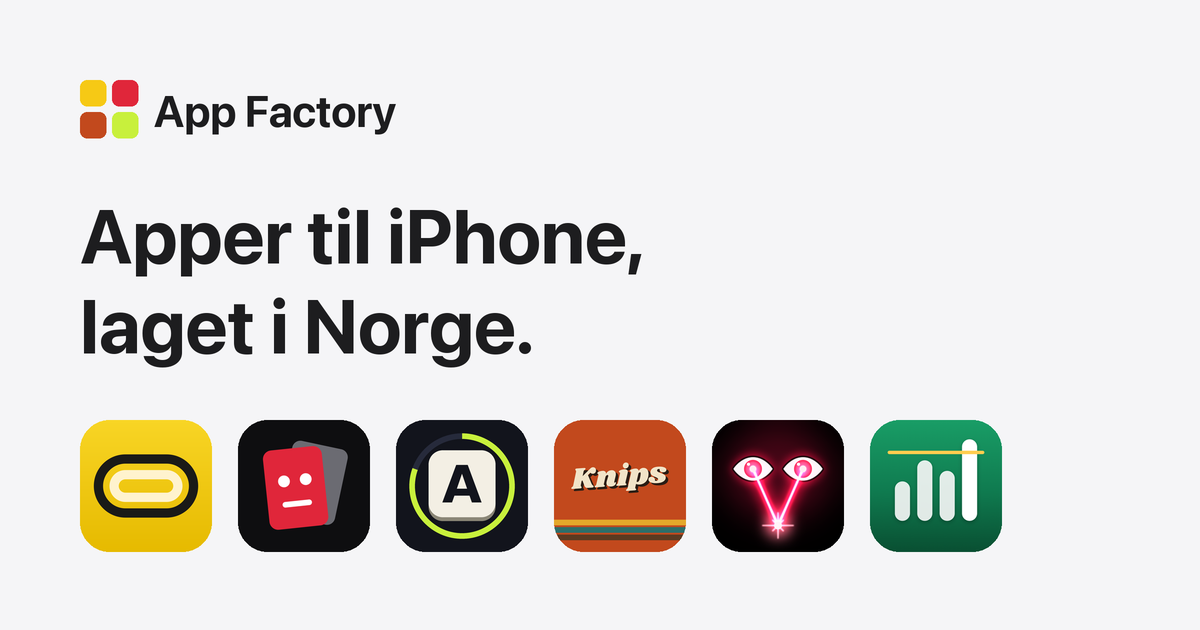
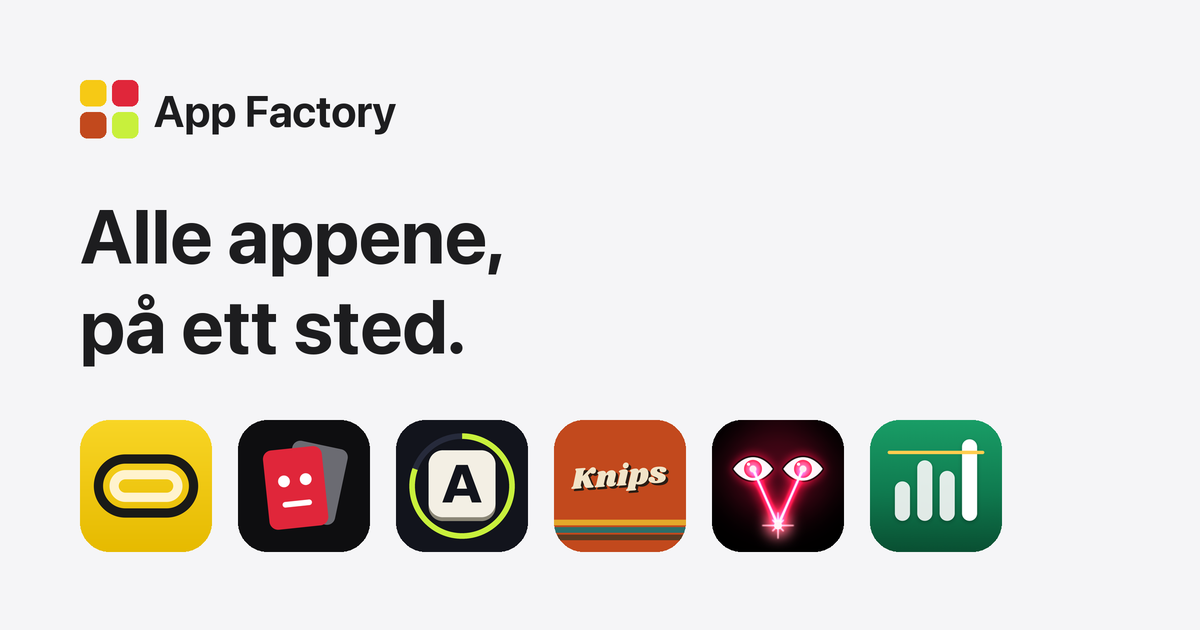
Forsiden uten føringer: «Alle appene fra App Factory», ingen påstander om hva slags apper
Claude-Session: https://claude.ai/code/session_01CbZcx439oTPkDrb5vm3B3Y

Changed region(s): [[0.0925, 0.3317, 0.555, 0.4524], [0.0617, 0.4825, 0.4625, 0.6032]]

diff --git a/index.html b/index.html
@@ -3,8 +3,8 @@
 <head>
 <meta charset="utf-8">
 <meta name="viewport" content="width=device-width, initial-scale=1">
-<title>App Factory – apper til iPhone, laget i Norge</title>
-<meta name="description" content="Alle appene fra App Factory: RunPace, Pokerface, TapTime og flere som kommer. Små, gjennomarbeidede apper til iPhone, laget i Norge av Stian Gaare Vaagan.">
+<title>App Factory – alle appene</title>
+<meta name="description" content="Alle appene fra App Factory, laget av Stian Gaare Vaagan: RunPace, Pokerface, TapTime og flere som kommer.">
 <meta name="color-scheme" content="light dark">
 <meta name="theme-color" content="#f5f5f7" media="(prefers-color-scheme: light)">
 <meta name="theme-color" content="#000000" media="(prefers-color-scheme: dark)">
@@ -14,8 +14,8 @@
 <link rel="alternate" hreflang="x-default" href="https://svaagan.github.io/en/">
 <meta property="og:type" content="website">
 <meta property="og:site_name" content="App Factory">
-<meta property="og:title" content="App Factory – apper til iPhone, laget i Norge">
-<meta property="og:description" content="Alle appene fra App Factory: RunPace, Pokerface, TapTime og flere som kommer. Små, gjennomarbeidede apper til iPhone, laget i Norge av Stian Gaare Vaagan.">
+<meta property="og:title" content="App Factory – alle appene">
+<meta property="og:description" content="Alle appene fra App Factory, laget av Stian Gaare Vaagan: RunPace, Pokerface, TapTime og flere som kommer.">
 <meta property="og:url" content="https://svaagan.github.io/">
 <meta property="og:locale" content="nb_NO">
 <meta property="og:image" content="https://svaagan.github.io/og.png">
@@ -32,8 +32,8 @@
 <header class="site-header"><div class="wrap"><a class="wordmark" href="/"><svg viewBox="0 0 26 26" aria-hidden="true"><rect x="0" y="0" width="12" height="12" rx="3.2" fill="#F6C915"/><rect x="14" y="0" width="12" height="12" rx="3.2" fill="#E0263A"/><rect x="0" y="14" width="12" height="12" rx="3.2" fill="#C2491D"/><rect x="14" y="14" width="12" height="12" rx="3.2" fill="#C8F03C"/></svg><span>App Factory</span></a></div></header>
 <main>
   <section class="hero wrap">
-    <h1>Små apper til iPhone, laget med omhu.</h1>
-    <p class="lead">Spill for festen og verktøy for hverdagen, laget av én utvikler i Norge. Åpne appen, og du er i gang.</p>
+    <h1>Alle appene fra App Factory</h1>
+    <p class="lead">Trykk på en app for å lese mer om den.</p>
   </section>
   <section class="wrap" id="apper" aria-labelledby="live-h">
     <h2 id="live-h">I App Store</h2>
@@ -101,7 +101,7 @@
   </section>
   <section class="wrap about" aria-labelledby="about-h">
     <h2 id="about-h">Hvem står bak?</h2>
-    <p>App Factory er Stian Gaare Vaagan. Jeg lager apper som skal gjøre én ting godt, være enkle å komme i gang med og ikke samle inn mer enn de trenger.</p>
+    <p>App Factory er Stian Gaare Vaagan.</p>
     <p>Spørsmål, ros eller ris? Skriv til <a href="mailto:kontakt@runpace.no">kontakt@runpace.no</a>.</p>
   </section>
 </main>

diff --git a/en/index.html b/en/index.html
@@ -3,8 +3,8 @@
 <head>
 <meta charset="utf-8">
 <meta name="viewport" content="width=device-width, initial-scale=1">
-<title>App Factory – iPhone apps made in Norway</title>
-<meta name="description" content="All the apps from App Factory: RunPace, Pokerface, TapTime and more on the way. Small, carefully made iPhone apps from Norway, by Stian Gaare Vaagan.">
+<title>App Factory – all the apps</title>
+<meta name="description" content="All the apps from App Factory, made by Stian Gaare Vaagan: RunPace, Pokerface, TapTime and more on the way.">
 <meta name="color-scheme" content="light dark">
 <meta name="theme-color" content="#f5f5f7" media="(prefers-color-scheme: light)">
 <meta name="theme-color" content="#000000" media="(prefers-color-scheme: dark)">
@@ -14,8 +14,8 @@
 <link rel="alternate" hreflang="x-default" href="https://svaagan.github.io/en/">
 <meta property="og:type" content="website">
 <meta property="og:site_name" content="App Factory">
-<meta property="og:title" content="App Factory – iPhone apps made in Norway">
-<meta property="og:description" content="All the apps from App Factory: RunPace, Pokerface, TapTime and more on the way. Small, carefully made iPhone apps from Norway, by Stian Gaare Vaagan.">
+<meta property="og:title" content="App Factory – all the apps">
+<meta property="og:description" content="All the apps from App Factory, made by Stian Gaare Vaagan: RunPace, Pokerface, TapTime and more on the way.">
 <meta property="og:url" content="https://svaagan.github.io/en/">
 <meta property="og:locale" content="en_US">
 <meta property="og:image" content="https://svaagan.github.io/og.png">
@@ -32,8 +32,8 @@
 <header class="site-header"><div class="wrap"><a class="wordmark" href="/en/"><svg viewBox="0 0 26 26" aria-hidden="true"><rect x="0" y="0" width="12" height="12" rx="3.2" fill="#F6C915"/><rect x="14" y="0" width="12" height="12" rx="3.2" fill="#E0263A"/><rect x="0" y="14" width="12" height="12" rx="3.2" fill="#C2491D"/><rect x="14" y="14" width="12" height="12" rx="3.2" fill="#C8F03C"/></svg><span>App Factory</span></a></div></header>
 <main>
   <section class="hero wrap">
-    <h1>Small iPhone apps, made with care.</h1>
-    <p class="lead">Games for the party and tools for everyday life, made by one developer in Norway. Open the app and you’re ready to go.</p>
+    <h1>All the apps from App Factory</h1>
+    <p class="lead">Tap an app to read more about it.</p>
   </section>
   <section class="wrap" id="apper" aria-labelledby="live-h">
     <h2 id="live-h">On the App Store</h2>
@@ -101,7 +101,7 @@
   </section>
   <section class="wrap about" aria-labelledby="about-h">
     <h2 id="about-h">Who’s behind it?</h2>
-    <p>App Factory is Stian Gaare Vaagan. I make apps that do one thing well, are easy to get started with, and collect no more than they need.</p>
+    <p>App Factory is Stian Gaare Vaagan.</p>
     <p>Questions or feedback? Write to <a href="mailto:kontakt@runpace.no">kontakt@runpace.no</a>.</p>
   </section>
 </main>

diff --git a/_src/build.py b/_src/build.py
@@ -46,21 +46,18 @@ def app_page(app, lang):
 # ── Tekster ─────────────────────────────────────────────────────────
 T = {
     "nb": {
-        "title": "%s – apper til iPhone, laget i Norge" % NAME,
-        "description": ("Alle appene fra %s: RunPace, Pokerface, TapTime og flere som kommer. "
-                        "Små, gjennomarbeidede apper til iPhone, laget i Norge av %s."
-                        % (NAME, STUDIO["person"])),
+        "title": "%s – alle appene" % NAME,
+        "description": ("Alle appene fra %s, laget av %s: RunPace, Pokerface, TapTime og "
+                        "flere som kommer." % (NAME, STUDIO["person"])),
         "skip": "Hopp til appene",
-        "h1": "Små apper til iPhone, laget med omhu.",
-        "lead": ("Spill for festen og verktøy for hverdagen, laget av én utvikler i Norge. "
-                 "Åpne appen, og du er i gang."),
+        "h1": "Alle appene fra %s" % NAME,
+        "lead": "Trykk på en app for å lese mer om den.",
         "live_h": "I App Store",
         "soon_h": "Kommer snart",
         "soon_badge": "Kommer snart",
         "store_link": "Last ned i App Store",
         "about_h": "Hvem står bak?",
-        "about": ("%s er %s. Jeg lager apper som skal gjøre én ting godt, være enkle å "
-                  "komme i gang med og ikke samle inn mer enn de trenger." % (NAME, STUDIO["person"])),
+        "about": "%s er %s." % (NAME, STUDIO["person"]),
         "contact": "Spørsmål, ros eller ris? Skriv til",
         "all_appstore": "Alle appene i App Store",
         "privacy_note": "Denne siden bruker ingen informasjonskapsler og samler ikke inn noe om deg.",
@@ -70,21 +67,18 @@ T = {
         "nf_text": "Adressen finnes ikke. Kanskje appen du lette etter, står på forsiden?",
     },
     "en": {
-        "title": "%s – iPhone apps made in Norway" % NAME,
-        "description": ("All the apps from %s: RunPace, Pokerface, TapTime and more on the way. "
-                        "Small, carefully made iPhone apps from Norway, by %s."
-                        % (NAME, STUDIO["person"])),
+        "title": "%s – all the apps" % NAME,
+        "description": ("All the apps from %s, made by %s: RunPace, Pokerface, TapTime and "
+                        "more on the way." % (NAME, STUDIO["person"])),
         "skip": "Skip to the apps",
-        "h1": "Small iPhone apps, made with care.",
-        "lead": ("Games for the party and tools for everyday life, made by one developer in Norway. "
-                 "Open the app and you’re ready to go."),
+        "h1": "All the apps from %s" % NAME,
+        "lead": "Tap an app to read more about it.",
         "live_h": "On the App Store",
         "soon_h": "Coming soon",
         "soon_badge": "Coming soon",
         "store_link": "Download on the App Store",
         "about_h": "Who’s behind it?",
-        "about": ("%s is %s. I make apps that do one thing well, are easy to get started "
-                  "with, and collect no more than they need." % (NAME, STUDIO["person"])),
+        "about": "%s is %s." % (NAME, STUDIO["person"]),
         "contact": "Questions or feedback? Write to",
         "all_appstore": "All the apps on the App Store",
         "privacy_note": "This page uses no cookies and collects nothing about you.",

diff --git a/_src/make_images.py b/_src/make_images.py
@@ -50,8 +50,8 @@ def og():
     d = ImageDraw.Draw(im)
     mark(d, 80, 80, 26, 6, 7)
     d.text((80 * S + 74 * S, 80 * S + 4 * S), STUDIO["name"], fill="#1d1d1f", font=font(44, 680))
-    d.text((80 * S, 190 * S), "Apper til iPhone,", fill="#1d1d1f", font=font(76, 700))
-    d.text((80 * S, 280 * S), "laget i Norge.", fill="#1d1d1f", font=font(76, 700))
+    d.text((80 * S, 190 * S), "Alle appene,", fill="#1d1d1f", font=font(76, 700))
+    d.text((80 * S, 280 * S), "på ett sted.", fill="#1d1d1f", font=font(76, 700))
     size, gap = 132, 26
     x = 80
     for app in APPS:

diff --git a/docs/KUNNSKAPSGRUNNLAG.md b/docs/KUNNSKAPSGRUNNLAG.md
@@ -49,4 +49,4 @@ Fra [Apples markedsføringsregler](https://developer.apple.com/app-store/marketi
   Fare: står en app der lenge, ser det uferdig ut. Flytt den opp når den er ute, eller fjern den.
 - **Rammen er nøytral** (systemfonten, grått og hvitt, mørkt tema), så ikonene står for fargen.
   Merket er fire ruter i fargene fra appikonene.
-- **Kort «om»:** to setninger og e-post, uten bilde.
+- **Ingen føringer for hva slags apper studioet lager** (Stian, 2026-11-04): forsiden sier bare at dette er alle appene, og «om» er én setning med navnet pluss e-post. Hver app beskrives på sin egen side.
